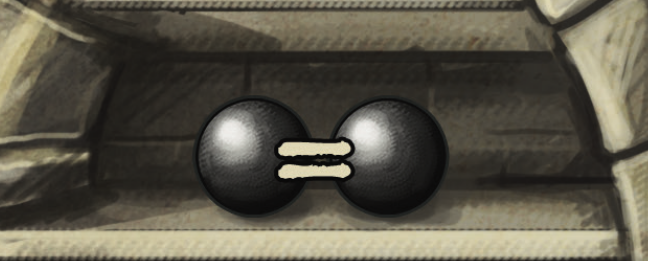
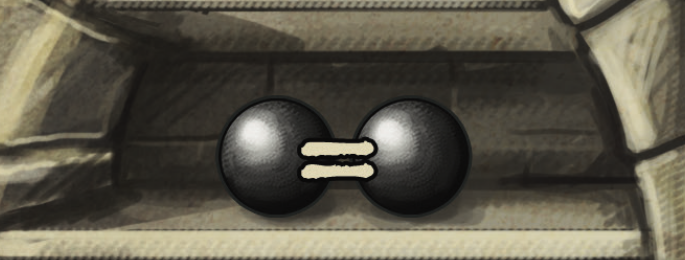
GUI - Warehouse placer improved.

diff --git a/src/main/java/it/polimi/ingsw/psp26/view/gui/modelcomponents/dialogcomponents/WarehousePlacerDrawer.java b/src/main/java/it/polimi/ingsw/psp26/view/gui/modelcomponents/dialogcomponents/WarehousePlacerDrawer.java
@@ -14,11 +14,12 @@ import it.polimi.ingsw.psp26.view.gui.drag.targetstrategies.TargetContainer;
 import it.polimi.ingsw.psp26.view.gui.modelcomponents.RatioDrawer;
 import it.polimi.ingsw.psp26.view.gui.modelcomponents.dialogcomponents.switchdepots.SwitchableDepot;
 import it.polimi.ingsw.psp26.view.gui.modelcomponents.dialogcomponents.switchdepots.SwitchableGroup;
+import javafx.geometry.Insets;
 import javafx.geometry.Pos;
 import javafx.scene.control.Button;
 import javafx.scene.image.Image;
 import javafx.scene.image.ImageView;
-import javafx.scene.layout.HBox;
+import javafx.scene.layout.GridPane;
 import javafx.scene.layout.Pane;
 import javafx.scene.layout.StackPane;
 import javafx.scene.layout.VBox;
@@ -107,7 +108,7 @@ public class WarehousePlacerDrawer extends RatioDrawer {
 
     private Pane drawResourcesToAdd(List<Pane> panesToDraw) {
 
-        int componentWidth = 550;
+        int componentWidth = 600;
 
         for (int i = 0; i < panesToDraw.size(); i++) {
             Pane paneToDraw = panesToDraw.get(i);
@@ -122,7 +123,7 @@ public class WarehousePlacerDrawer extends RatioDrawer {
 
     public void placeResourceToAdd(Resource resource) {
         int maxHeight = 400;
-        int componentWidth = 550;
+        int componentWidth = 600;
 
         Random random = new Random();
 
@@ -136,35 +137,58 @@ public class WarehousePlacerDrawer extends RatioDrawer {
         resourcesToAdd.add(resource);
     }
 
+
     private Pane getWarehousePane() {
 
-        VBox vBox = new VBox();
+        int[] leftOffsets = new int[]{220, 160, 80};
+        int[] topOffsets = new int[]{0, 0, 0};
+        int[] bottomOffsets = new int[]{0, 0, 0};
+
+        StackPane warehousePane = new StackPane();
+
+        Image warehouseImage = loadImage("warehouse/warehouse.png", (int) (650 * ratio));
+        warehouseImage = setRoundedCorners(warehouseImage, ratio);
+        warehouseImage = addLightEffects(warehouseImage, ratio);
+        ImageView warehouseImageView = getImageView(warehouseImage, 0, 0);
+        warehousePane.getChildren().add(warehouseImageView);
+
+        VBox vBox = new VBox(0);
 
         for (Depot baseDepot : warehouse.getBaseDepots()) {
-            Image baseDepotImage = loadImage("warehouse/warehouse_" + warehouse.getBaseDepots().indexOf(baseDepot) + ".png", (int) (500 * ratio));
+            int depotIndex = warehouse.getBaseDepots().indexOf(baseDepot);
+
+            // Opacity zero image view. It is used to keep distance between depot-targets even if no resources are in the depots
+            Image baseDepotImage = loadImage("warehouse/warehouse_" + depotIndex + ".png", (int) (warehouseImage.getWidth() - 50 * ratio));
             baseDepotImage = setRoundedCorners(baseDepotImage, ratio);
-            baseDepotImage = addLightEffects(baseDepotImage, ratio);
+            ImageView baseDepotImageView = getImageView(baseDepotImage, 0, 0);
+            baseDepotImageView.setOpacity(0.1);
+            StackPane imageStack = new StackPane(baseDepotImageView);
 
-            ImageView imageView = getImageView(baseDepotImage, 0, 0);
-            StackPane imageStack = new StackPane(imageView);
+            GridPane resourcesGridPane = new GridPane();
+            resourcesGridPane.setVgap(0 * ratio);
+            resourcesGridPane.setHgap(-10 * ratio);
+            resourcesGridPane.setPadding(new Insets(topOffsets[depotIndex] * ratio, 0, bottomOffsets[depotIndex] * ratio, leftOffsets[depotIndex] * ratio)); // top / right / bottom / left
+            drawResources(vBox, baseDepot, imageStack, resourcesGridPane);
 
-            HBox resourcesBox = new HBox();
-            for (Resource resource : baseDepot.getResources())
-                resourcesBox.getChildren().add(getImageView(getResourceImage(resource, ratio), 0, 0));
-
-            resourcesBox.setAlignment(Pos.CENTER);
-            imageStack.getChildren().add(resourcesBox);
-            vBox.getChildren().add(imageStack);
-
-            System.out.println("WarehousePlacerDrawer - index: " + warehouse.getAllDepots().indexOf(baseDepot));
-            DepotTargetContainer depotTargetContainer = new DepotTargetContainer(resourcesBox, warehouse, warehouse.getAllDepots().indexOf(baseDepot));
-            SwitchableDepot switchableDepot = new SwitchableDepot(baseDepot, switchableGroup, imageStack, imageView, resourcesBox);
+            System.out.println("WarehousePlacerDrawer - index: " + depotIndex);
+            DepotTargetContainer depotTargetContainer = new DepotTargetContainer(resourcesGridPane, imageStack, warehouse, depotIndex);
+            SwitchableDepot switchableDepot = new SwitchableDepot(baseDepot, switchableGroup, imageStack, baseDepotImageView, resourcesGridPane);
             switchableGroup.addSwitchableDepot(switchableDepot);
             targets.add(depotTargetContainer);
 
         }
 
-        return vBox;
+        warehousePane.getChildren().add(vBox);
+        return warehousePane;
+    }
+
+    private void drawResources(VBox vBox, Depot baseDepot, StackPane imageStack, GridPane resourcesGridPane) {
+        for (int i = 0; i < baseDepot.getResources().size(); i++)
+            resourcesGridPane.add(getImageView(getResourceImage(baseDepot.getResources().get(i), ratio), 0, 0), i, 1, 1, 1);
+
+        resourcesGridPane.setAlignment(Pos.CENTER_LEFT);
+        imageStack.getChildren().add(resourcesGridPane);
+        vBox.getChildren().add(imageStack);
     }
 
     private Pane getLeaderDepotsPane() {
@@ -179,16 +203,13 @@ public class WarehousePlacerDrawer extends RatioDrawer {
             ImageView imageView = getImageView(leaderImage, 0, 0);
             StackPane imageStack = new StackPane(imageView);
 
-            HBox resourcesBox = new HBox(50 * ratio);
-            for (Resource resource : leaderDepot.getResources())
-                resourcesBox.getChildren().add(getImageView(getResourceImage(resource, ratio), 0, 0));
-
-            resourcesBox.setAlignment(Pos.CENTER);
-            imageStack.getChildren().add(resourcesBox);
-            vBox.getChildren().add(imageStack);
+            GridPane resourcesGridPane = new GridPane();
+            resourcesGridPane.setPadding(new Insets(0, 0, 0, 30 * ratio)); // top / right / bottom / left
+            resourcesGridPane.setHgap(30 * ratio);
+            drawResources(vBox, leaderDepot, imageStack, resourcesGridPane);
 
             System.out.println("WarehousePlacerDrawer - index: " + warehouse.getAllDepots().indexOf(leaderDepot));
-            DepotTargetContainer depotTargetContainer = new DepotTargetContainer(resourcesBox, warehouse, warehouse.getAllDepots().indexOf(leaderDepot));
+            DepotTargetContainer depotTargetContainer = new DepotTargetContainer(resourcesGridPane, imageStack, warehouse, warehouse.getAllDepots().indexOf(leaderDepot));
             targets.add(depotTargetContainer);
 
         }

diff --git a/src/main/java/it/polimi/ingsw/psp26/view/gui/drag/DraggedObject.java b/src/main/java/it/polimi/ingsw/psp26/view/gui/drag/DraggedObject.java
@@ -58,15 +58,16 @@ public class DraggedObject<T> {
             boolean movedSuccessfully = false;
             for (TargetContainer<T> tTargetContainer : targetContainers) {
 
-                System.out.println("DraggedObject - width:" + tTargetContainer.getPane().getWidth() + " - x: " + tTargetContainer.getPane().localToScene(tTargetContainer.getPane().getBoundsInLocal()));
+                // System.out.println("DraggedObject - width:" + tTargetContainer.getPane().getWidth() + " - x: " + tTargetContainer.getPane().localToScene(tTargetContainer.getPane().getBoundsInLocal()));
 
-                if (imageView.localToScene(imageView.getBoundsInLocal()).intersects(tTargetContainer.getPane().localToScene(tTargetContainer.getPane().getBoundsInLocal()))) {
+                if (imageView.localToScene(imageView.getBoundsInLocal()).intersects(
+                        tTargetContainer.getTargetContainerPane().localToScene(tTargetContainer.getTargetContainerPane().getBoundsInLocal()))) {
 
                     if (tTargetContainer.place(object)) {
                         movedSuccessfully = true;
                         sourcePane.getChildren().remove(imageView);
-                        if (!tTargetContainer.getPane().getChildren().contains(imageView))
-                            tTargetContainer.getPane().getChildren().add(imageView);
+                        if (!tTargetContainer.getDraggableObjectsContainer().getChildren().contains(imageView))
+                            tTargetContainer.getDraggableObjectsContainer().add(imageView, tTargetContainer.getDraggableObjectsContainer().getColumnCount() + 1, 1, 1, 1);
                     }
                     break;
                 }
@@ -85,7 +86,7 @@ public class DraggedObject<T> {
             if (mouseEvent.isPrimaryButtonDown() && selected &&
                     sourcePane.contains(new Point2D(mouseEvent.getX() + margin, mouseEvent.getY() + margin)) &&
                     sourcePane.contains(new Point2D(mouseEvent.getX() - margin, mouseEvent.getY() - margin))) {
-                System.out.println("mouse position: " + mouseEvent.getX() + ":" + mouseEvent.getY() + " --- " + sourcePane.localToScene(sourcePane.getBoundsInLocal()));
+                // System.out.println("mouse position: " + mouseEvent.getX() + ":" + mouseEvent.getY() + " --- " + sourcePane.localToScene(sourcePane.getBoundsInLocal()));
                 imageView.setX(mouseEvent.getX() - imageView.getImage().getWidth() / 2);
                 imageView.setY(mouseEvent.getY() - imageView.getImage().getHeight() / 2);
             }

diff --git a/src/main/java/it/polimi/ingsw/psp26/view/gui/manualtesting/WarehousePlacerDrawerTest.java b/src/main/java/it/polimi/ingsw/psp26/view/gui/manualtesting/WarehousePlacerDrawerTest.java
@@ -1,6 +1,6 @@
 package it.polimi.ingsw.psp26.view.gui.manualtesting;
 
-import it.polimi.ingsw.psp26.exceptions.CanNotAddResourceToWarehouse;
+import it.polimi.ingsw.psp26.exceptions.CanNotAddResourceToDepotException;
 import it.polimi.ingsw.psp26.model.enums.Resource;
 import it.polimi.ingsw.psp26.model.personalboard.LeaderDepot;
 import it.polimi.ingsw.psp26.model.personalboard.Warehouse;
@@ -29,14 +29,11 @@ public class WarehousePlacerDrawerTest extends Application {
         warehouse.addLeaderDepot(new LeaderDepot(new VirtualView(), Resource.SERVANT));
 
         try {
-            warehouse.addResource(Resource.STONE);
-            warehouse.addResource(Resource.SHIELD);
-            warehouse.addResource(Resource.SHIELD);
-            warehouse.addResource(Resource.COIN);
-            warehouse.addResource(Resource.COIN);
-            warehouse.addResource(Resource.SERVANT);
-            warehouse.addResource(Resource.SERVANT);
-        } catch (CanNotAddResourceToWarehouse canNotAddResourceToWarehouse) {
+            warehouse.addResourceToDepot(0, Resource.SHIELD);
+//            warehouse.addResourceToDepot(1, Resource.STONE);
+            warehouse.addResourceToDepot(2, Resource.COIN);
+            warehouse.addResourceToDepot(2, Resource.COIN);
+        } catch (CanNotAddResourceToDepotException canNotAddResourceToWarehouse) {
             canNotAddResourceToWarehouse.printStackTrace();
         }
 
@@ -46,6 +43,8 @@ public class WarehousePlacerDrawerTest extends Application {
             add(Resource.STONE);
             add(Resource.COIN);
             add(Resource.SERVANT);
+            add(Resource.SERVANT);
+            add(Resource.SHIELD);
             add(Resource.SHIELD);
         }};
 

diff --git a/src/main/java/it/polimi/ingsw/psp26/view/gui/modelcomponents/dialogcomponents/switchdepots/SwitchableDepot.java b/src/main/java/it/polimi/ingsw/psp26/view/gui/modelcomponents/dialogcomponents/switchdepots/SwitchableDepot.java
@@ -3,6 +3,7 @@ package it.polimi.ingsw.psp26.view.gui.modelcomponents.dialogcomponents.switchde
 import it.polimi.ingsw.psp26.model.personalboard.Depot;
 import javafx.scene.image.Image;
 import javafx.scene.image.ImageView;
+import javafx.scene.layout.GridPane;
 import javafx.scene.layout.Pane;
 
 import static it.polimi.ingsw.psp26.view.gui.effects.LightEffects.addSelectionShadow;
@@ -12,14 +13,14 @@ public class SwitchableDepot {
     private final Pane imageViewContainer;
     private final Depot depot;
     private final ImageView depotImageView;
-    private final Pane resourcesContainer;
+    private final GridPane resourcesContainer;
     private final Image originalImage;
     private final Image sourceSwitchImage;
     private SwitchableGroup switchableGroup;
     private boolean isSource;
     private boolean isTarget;
 
-    public SwitchableDepot(Depot depot, SwitchableGroup switchableGroup, Pane imageViewContainer, ImageView depotImageView, Pane resourcesContainer) {
+    public SwitchableDepot(Depot depot, SwitchableGroup switchableGroup, Pane imageViewContainer, ImageView depotImageView, GridPane resourcesContainer) {
         this.depot = depot;
 
         this.switchableGroup = switchableGroup;
@@ -89,7 +90,7 @@ public class SwitchableDepot {
         return imageViewContainer;
     }
 
-    public Pane getResourcesContainer() {
+    public GridPane getResourcesContainer() {
         return resourcesContainer;
     }
 }

diff --git a/src/main/java/it/polimi/ingsw/psp26/view/gui/drag/targetstrategies/TargetContainer.java b/src/main/java/it/polimi/ingsw/psp26/view/gui/drag/targetstrategies/TargetContainer.java
@@ -1,13 +1,16 @@
 package it.polimi.ingsw.psp26.view.gui.drag.targetstrategies;
 
+import javafx.scene.layout.GridPane;
 import javafx.scene.layout.Pane;
 
 public abstract class TargetContainer<T> implements TargetPlacer<T> {
 
-    private final Pane pane;
+    private final GridPane draggableObjectsContainer;
+    private final Pane targetContainerPane;
 
-    protected TargetContainer(Pane pane) {
-        this.pane = pane;
+    protected TargetContainer(GridPane draggableObjectsContainer, Pane targetContainerPane) {
+        this.draggableObjectsContainer = draggableObjectsContainer;
+        this.targetContainerPane = targetContainerPane;
     }
 
     @Override
@@ -15,7 +18,11 @@ public abstract class TargetContainer<T> implements TargetPlacer<T> {
         return false;
     }
 
-    public Pane getPane() {
-        return pane;
+    public GridPane getDraggableObjectsContainer() {
+        return draggableObjectsContainer;
+    }
+
+    public Pane getTargetContainerPane() {
+        return targetContainerPane;
     }
 }

diff --git a/src/main/java/it/polimi/ingsw/psp26/view/gui/drag/targetstrategies/DepotTargetContainer.java b/src/main/java/it/polimi/ingsw/psp26/view/gui/drag/targetstrategies/DepotTargetContainer.java
@@ -3,6 +3,7 @@ package it.polimi.ingsw.psp26.view.gui.drag.targetstrategies;
 import it.polimi.ingsw.psp26.exceptions.CanNotAddResourceToDepotException;
 import it.polimi.ingsw.psp26.model.enums.Resource;
 import it.polimi.ingsw.psp26.model.personalboard.Warehouse;
+import javafx.scene.layout.GridPane;
 import javafx.scene.layout.Pane;
 
 public class DepotTargetContainer extends TargetContainer<Resource> {
@@ -10,8 +11,8 @@ public class DepotTargetContainer extends TargetContainer<Resource> {
     private final Warehouse warehouse;
     private final int depotIndex;
 
-    public DepotTargetContainer(Pane pane, Warehouse warehouse, int depotIndex) {
-        super(pane);
+    public DepotTargetContainer(GridPane resourcesContainerGridPane, Pane resourceTargetPane, Warehouse warehouse, int depotIndex) {
+        super(resourcesContainerGridPane, resourceTargetPane);
         this.warehouse = warehouse;
         this.depotIndex = depotIndex;
     }

diff --git a/src/main/java/it/polimi/ingsw/psp26/view/gui/modelcomponents/dialogcomponents/switchdepots/SwitchableGroup.java b/src/main/java/it/polimi/ingsw/psp26/view/gui/modelcomponents/dialogcomponents/switchdepots/SwitchableGroup.java
@@ -72,7 +72,9 @@ public class SwitchableGroup {
             try {
                 warehouse.addResourceToDepot(targetDepotIndex, sourceDepotResource);
                 // If everything works as expected, we can draw the resource in the target
-                targetSelectedDepot.getResourcesContainer().getChildren().add(getImageView(getResourceImage(sourceDepotResource, warehousePlacerDrawer.getRatio()), 0, 0));
+                targetSelectedDepot.getResourcesContainer().add(
+                        getImageView(getResourceImage(sourceDepotResource, warehousePlacerDrawer.getRatio()), 0, 0),
+                        targetSelectedDepot.getResourcesContainer().getColumnCount() + 1, 1, 1, 1);
             } catch (CanNotAddResourceToDepotException e) {
                 // otherwise we should put the resource between the resources to add
                 warehousePlacerDrawer.placeResourceToAdd(sourceDepotResource);
